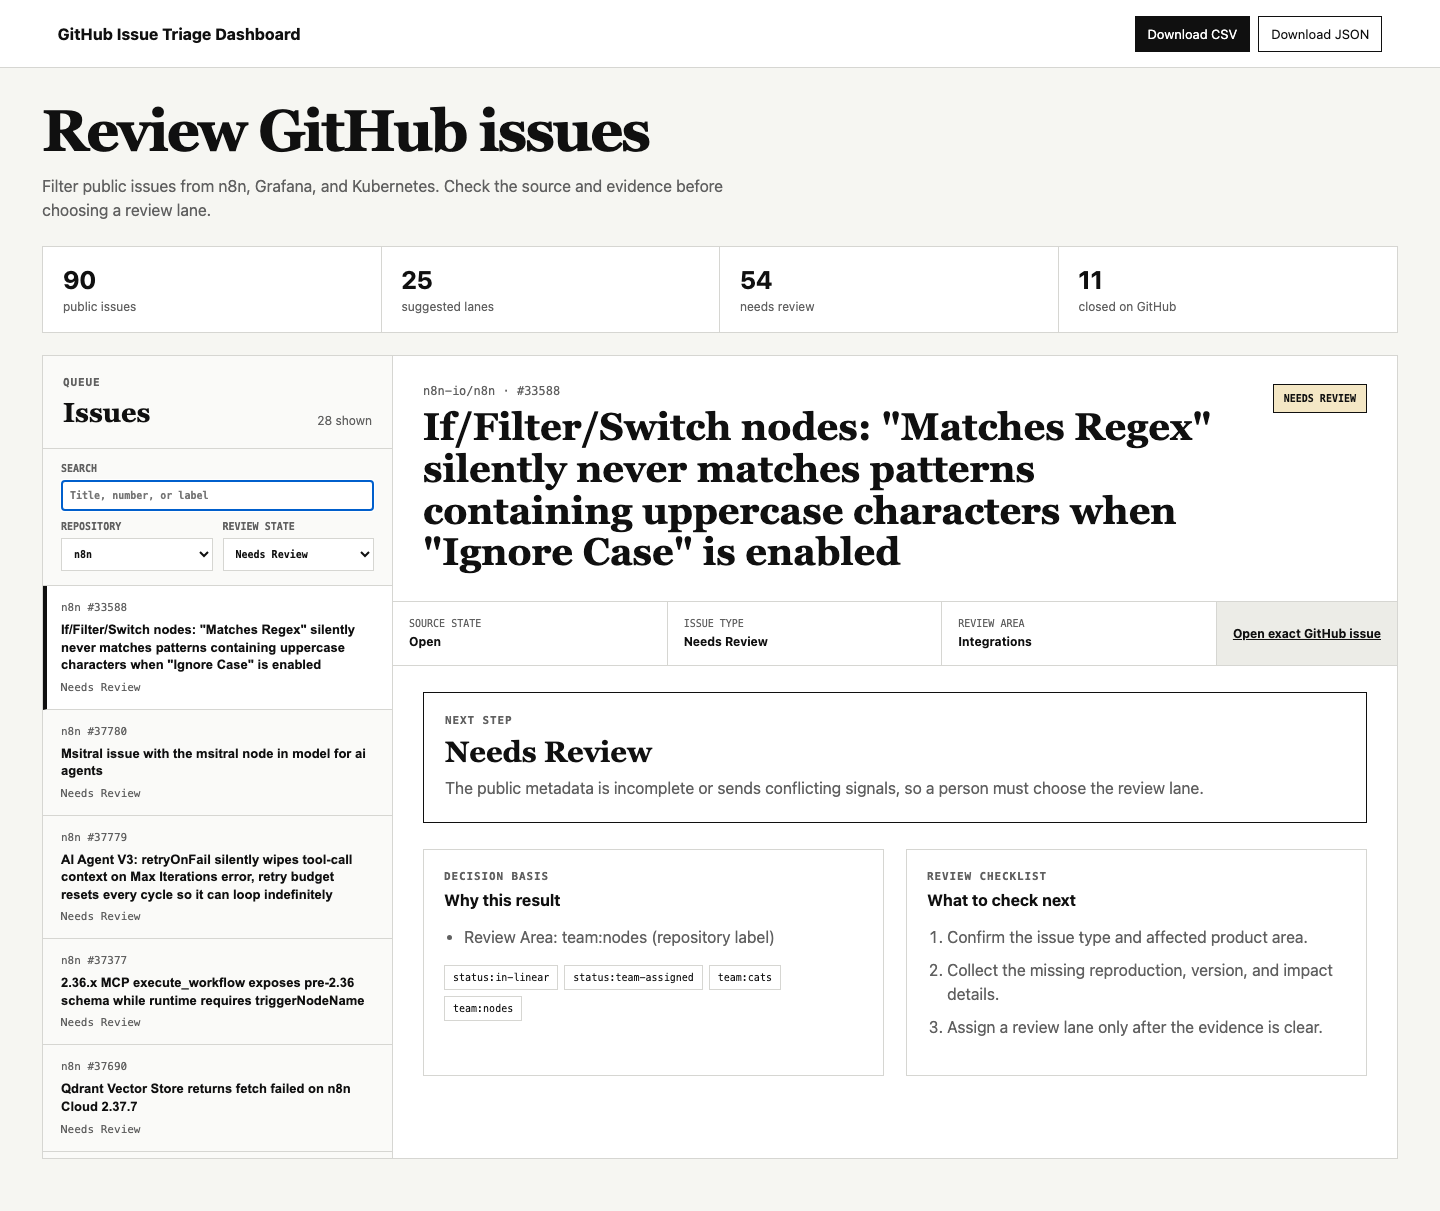
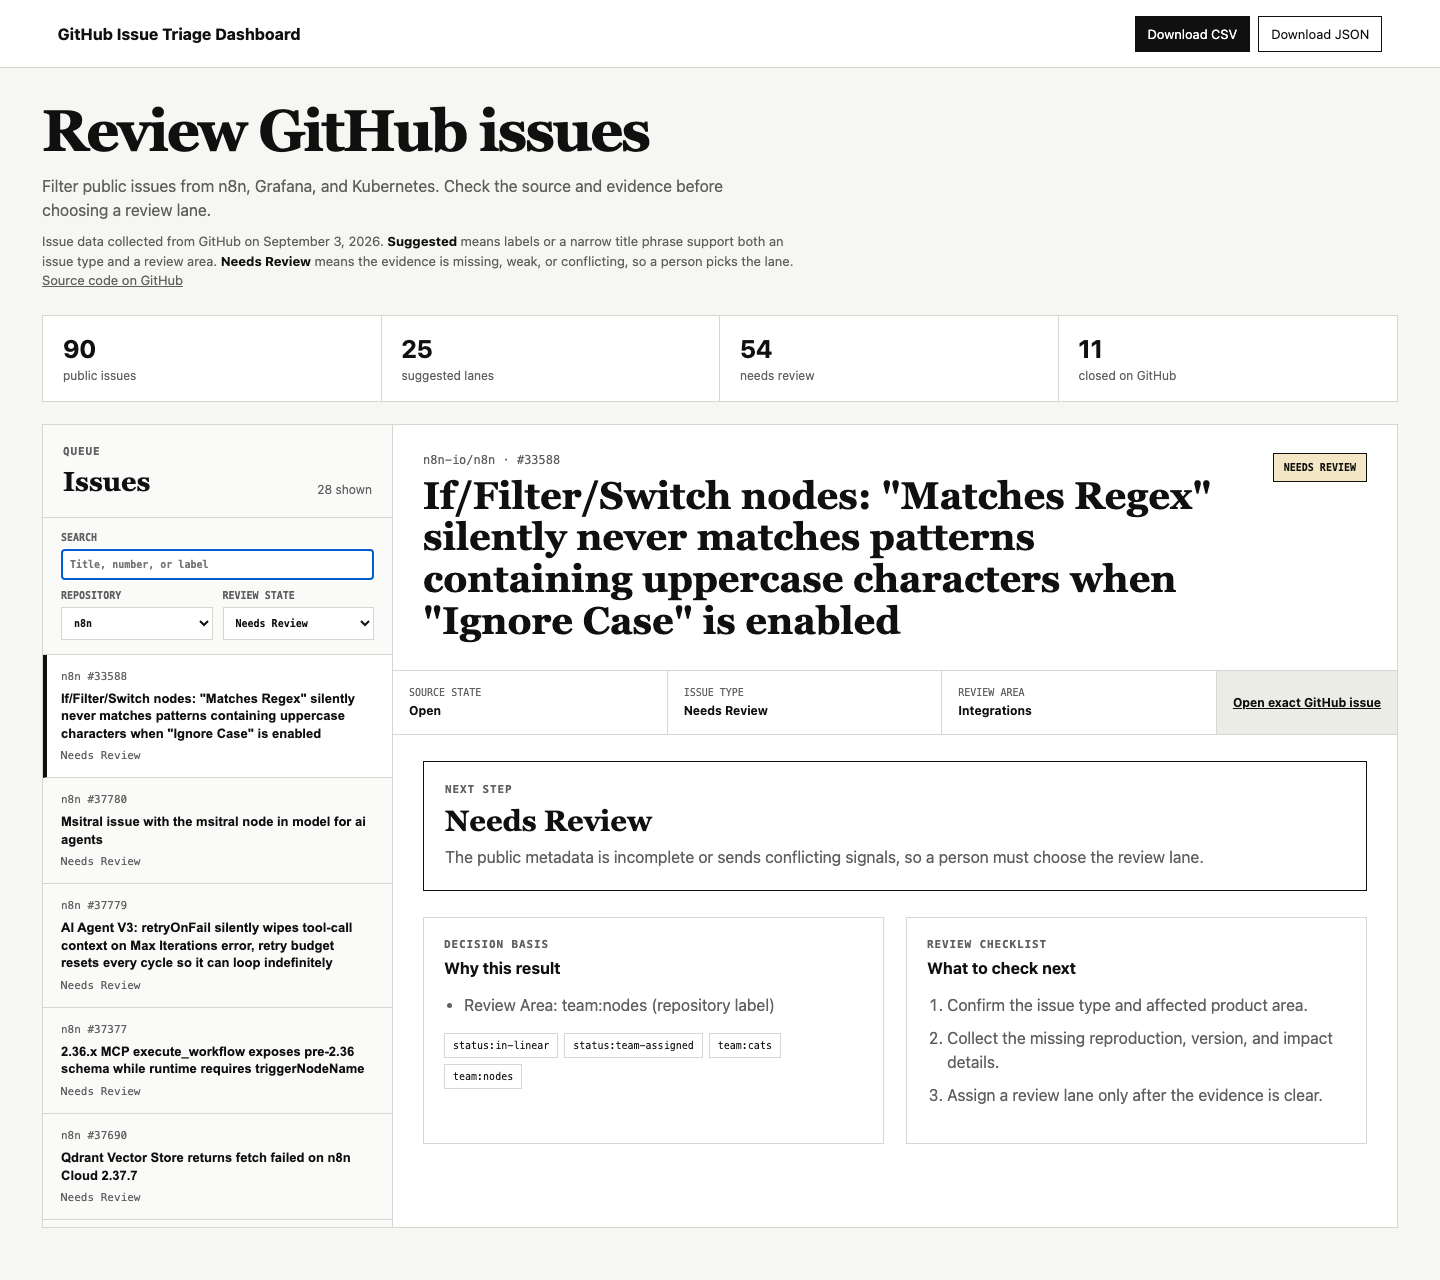
Clean up public docs and add data context to the dashboard
- Record a repo-relative app root in browser QA evidence instead of a
  local path, and drop the private note path from the verify script.
- Rewrite the README top: live link, screenshot, dated key counts, and
  why n8n issues are held for review. Move setup lower.
- Drop pinned-release and approval notes; plain down framing wording in
  the walkthrough, claim ledger, verification notes, and source register.
- Show the data date (from the generated data), what Suggested and
  Needs Review mean, and a repository link on the live page, with a
  browser check for the new line.
- Let the README state counts; other documents still keep generated
  counts out of prose.

diff --git a/site/dashboard.css b/site/dashboard.css
@@ -30,6 +30,8 @@ main { width: min(1500px, 100%); margin: 0 auto; padding: 0 clamp(14px, 3vw, 42p
 .kicker { margin: 0 0 8px; color: var(--muted); font: 700 11px ui-monospace, monospace; letter-spacing: .08em; text-transform: uppercase; }
 h1 { max-width: 780px; margin: 0; font: 600 clamp(36px, 4.2vw, 58px)/1 Georgia, serif; letter-spacing: -.035em; }
 .intro-copy { max-width: 720px; margin: 14px 0 0; color: var(--muted); font-size: 16px; line-height: 1.5; }
+.data-note { max-width: 760px; margin: 10px 0 0; color: var(--muted); font-size: 13px; line-height: 1.5; }
+.data-note strong { color: var(--ink); }
 
 .metrics { margin-bottom: 22px; display: grid; grid-template-columns: repeat(4, 1fr); border: 1px solid var(--line); background: var(--white); }
 .metrics div { min-width: 0; padding: 18px 20px; border-right: 1px solid var(--line); }

diff --git a/site/index.html b/site/index.html
@@ -25,6 +25,7 @@
       <div>
         <h1 id="page-title">Review GitHub issues</h1>
         <p class="intro-copy">Filter public issues from n8n, Grafana, and Kubernetes. Check the source and evidence before choosing a review lane.</p>
+        <p class="data-note">Issue data collected from GitHub on <time id="data-date" datetime="2026-09-03">September 3, 2026</time>. <strong>Suggested</strong> means labels or a narrow title phrase support both an issue type and a review area. <strong>Needs Review</strong> means the evidence is missing, weak, or conflicting, so a person picks the lane. <a href="https://github.com/Duckky153/issue-triage" target="_blank" rel="noreferrer">Source code on GitHub</a></p>
       </div>
     </section>
 

diff --git a/site/dashboard.js b/site/dashboard.js
@@ -122,6 +122,11 @@
   $("#metric-suggested").textContent = data.summary.suggested;
   $("#metric-review").textContent = data.summary.needsReview;
   $("#metric-closed").textContent = data.summary.closedSource;
+  const dataDate = new Date(data.summary.retrievedAt);
+  if (!Number.isNaN(dataDate.getTime())) {
+    $("#data-date").textContent = dataDate.toLocaleDateString("en-US", { year: "numeric", month: "long", day: "numeric", timeZone: "UTC" });
+    $("#data-date").dateTime = dataDate.toISOString().slice(0, 10);
+  }
   render();
   document.documentElement.dataset.ready = "true";
 })();

diff --git a/src/collector.js b/src/collector.js
@@ -157,7 +157,7 @@ export async function collectSnapshot(options = {}) {
     boundaries: [
       "The records are public GitHub issues, not private support tickets.",
       "The dashboard is independent and is not affiliated with the repositories or their maintainers.",
-      "Suggested review lanes are deterministic portfolio outputs, not maintainer assignments or priorities."
+      "Suggested review lanes come from fixed rules; they are not maintainer assignments or priorities."
     ]
   };
   return { dataset, manifest };

diff --git a/src/release.js b/src/release.js
@@ -69,7 +69,8 @@ export function buildRelease(dataset, manifest, benchmark) {
       totalRecords: dashboard.totalRecords,
       needsReview: dashboard.needsReview,
       suggested: dashboard.suggested,
-      closedSource: dashboard.closedRecords
+      closedSource: dashboard.closedRecords,
+      retrievedAt: dataset.retrievedAt
     },
     results: publicResults
   };

diff --git a/site/generated-data.js b/site/generated-data.js
@@ -3,7 +3,8 @@ window.GITHUB_TRIAGE_DATA = {
     "totalRecords": 90,
     "needsReview": 54,
     "suggested": 25,
-    "closedSource": 11
+    "closedSource": 11,
+    "retrievedAt": "2026-09-03T20:21:36.478Z"
   },
   "results": [
     {

diff --git a/README.md b/README.md
@@ -1,8 +1,23 @@
 # GitHub Issue Triage Dashboard
 
-A dashboard that turns public GitHub issue metadata into a review queue. It keeps the exact source link, shows the evidence used, separates issue type from review area, and sends uncertain records to `Needs Review`.
+This dashboard turns public GitHub issues from n8n, Grafana, and Kubernetes into a review queue. It helps a person who triages issues see the exact source, the evidence behind each suggested review lane, and which issues still need a human decision.
 
-The pinned release contains equal samples from n8n, Grafana, and Kubernetes. The live totals, exclusions, hashes, and review-state counts are generated; they are not copied into this document.
+**Live site:** [duckky153.github.io/issue-triage](https://duckky153.github.io/issue-triage/)
+
+![The dashboard with the issue queue, filters, and one selected issue with its evidence and review checklist](evidence/dashboard-desktop.png)
+
+## Key facts
+
+From the issue data collected on September 3, 2026:
+
+- 90 public issues, 30 from each repository.
+- 25 issues have a suggested review lane, 54 are held for review, and 11 were already closed on GitHub.
+- None of the 30 n8n issues gets a suggested lane. Recent n8n issues carry team and status labels but no bug or feature label, so the rules hold them for review instead of guessing.
+- Every deploy first runs 23 unit tests, 15 artifact checks, and 19 browser checks. A failed check stops the release.
+
+Built with AI assistance (Claude Code and Codex).
+
+This is an independent project on public data. It is not affiliated with n8n, Grafana, or Kubernetes, and it has no real users. A suggested review lane comes from fixed rules and is a prompt for human review, not an assignment, priority, or maintainer decision.
 
 ## Run it
 
@@ -21,13 +36,13 @@ stopping that project:
 PORT=4192 npm run serve
 ```
 
-To collect a new candidate and promote it only after every gate passes:
+To collect new issue data and promote it only after every check passes:
 
 ```bash
 npm run refresh-and-verify
 ```
 
-## Build the public demo
+## Build the static site
 
 ```bash
 npm run build-static
@@ -37,7 +52,7 @@ npm run serve-static
 
 The `dist` folder is a self-contained static site. It includes the dashboard data and both downloadable handoffs, uses relative paths so it works under a GitHub Pages project URL, and makes no API request when a visitor opens it.
 
-The public demo is live at `https://duckky153.github.io/issue-triage/`, with source at `https://github.com/Duckky153/issue-triage`. The checked-in Pages workflow runs the full release gate, builds `dist`, and deploys that folder. See `docs/DEPLOYMENT.md`. Building the folder locally does not publish it.
+The source is at `https://github.com/Duckky153/issue-triage`. The checked-in Pages workflow runs the full check suite, builds `dist`, and deploys that folder. See `docs/DEPLOYMENT.md`. Building the folder locally does not publish it.
 
 ## What the workflow does
 
@@ -51,8 +66,8 @@ The public demo is live at `https://duckky153.github.io/issue-triage/`, with sou
 
 The CSV and JSON handoff files contain the source URL, evidence, suggested review lane, and next-step checklist for every issue.
 
-## Boundaries
+## Limits
 
-This is an independent portfolio project. It does not prove affiliation, employment, maintainer access, private support work, production use, employee adoption, time saved, or a business outcome. A suggested review lane is an explainable prompt for human review, not an assignment, priority, resolution, or maintainer decision.
+The project does not show affiliation, employment, maintainer access, private support work, production use, adoption, time saved, or a business outcome. The counts above describe the September 3, 2026 data; `evidence/current-verification.json` holds the current generated result.
 
-See `docs/USER-GUIDE.md` for the walkthrough and `evidence/current-verification.json` for the current generated result.
+See `docs/USER-GUIDE.md` for how to use the dashboard and `docs/WALKTHROUGH.md` for how it works.

diff --git a/evidence/CLAIM-LEDGER.md b/evidence/CLAIM-LEDGER.md
@@ -6,12 +6,12 @@
 | Keeps equal samples from three repositories | Generated data-quality report and source register | A snapshot, not a live demand estimate |
 | Excludes pull requests and duplicate records | Collector tests and per-source manifest counts | Does not judge issue quality |
 | Omits people, bodies, comment text, and credentials | Collector normalization test and data-quality gate | Public titles and labels remain |
-| Separates issue type, review area, and review state | Engine output, unit tests, dashboard fields | These are portfolio rules, not company taxonomy |
+| Separates issue type, review area, and review state | Engine output, unit tests, dashboard fields | These rules were written for this project, not taken from a maintainer taxonomy |
 | Returns `Needs Review` on weak or conflicting evidence | Conflict, missing-evidence, and needs-information tests | A human must decide the lane |
 | Uses a fixed reviewed benchmark | `data/benchmark.json`, generated benchmark report | Measures rule agreement and coverage, not model accuracy |
 | Preserves the prior release after refresh failure | Transaction tests and maintenance document | Local file rollback only |
 | Exports a review handoff | Generated CSV and JSON files | No ticket-system write or assignment |
-| Builds a self-contained static demo | `npm run build-static` and `npm run verify-static` | Public availability begins only after an approved deployment |
+| Builds a self-contained static site | `npm run build-static` and `npm run verify-static` | The public site changes only after the Pages workflow passes |
 | Escapes hostile public titles | Browser test using an injected hostile title | Covers displayed public strings in this interface |
 
 ## Claims not supported

diff --git a/docs/DEPLOYMENT.md b/docs/DEPLOYMENT.md
@@ -1,4 +1,4 @@
-# Public demo deployment
+# Deployment
 
 ## Release gate
 
@@ -25,11 +25,8 @@ The public repository is `Duckky153/issue-triage`, and the deployed site is `htt
 
 The workflow in `.github/workflows/pages.yml` runs the full verification suite before deployment. A failed gate stops the release.
 
-The public release at commit `d71e1a0ae63b265909974c17ca21d840a5d754b3` passed workflow run `33813274154` on September 3, 2026. A separate public-host browser check confirmed the totals, search, both filters, exact source links, CSV and JSON downloads, and mobile layout with no console or page errors.
+The first public release, commit `d71e1a0ae63b265909974c17ca21d840a5d754b3`, passed workflow run `33813274154` on September 3, 2026. A separate public-host browser check confirmed the totals, search, both filters, exact source links, CSV and JSON downloads, and mobile layout with no console or page errors.
 
-## Updating the public snapshot
+## Updating the public data
 
-Refresh locally and review the result before pushing it. A live refresh changes which recently updated issues appear, so the checked-in release remains stable until the verified files are committed and deployed.
-
-The initial publication was owner-authorized on September 3, 2026. Future
-public changes still require owner approval and a passing workflow.
+Refresh locally and review the result before pushing it. A live refresh changes which recently updated issues appear, so the checked-in release remains stable until the verified files are committed and deployed. A change reaches the public site only after the workflow passes.

diff --git a/docs/WALKTHROUGH.md b/docs/WALKTHROUGH.md
@@ -1,6 +1,6 @@
 # Walkthrough
 
-## Two-minute explanation
+## How it works
 
 1. **Problem:** public issue queues contain mixed work and incomplete metadata. The dashboard prepares a review record without pretending to make a maintainer decision.
 2. **Input:** public GitHub metadata from three repositories. Pull requests, duplicate records, usernames, bodies, assignees, and comment text are excluded.
@@ -8,9 +8,9 @@
 4. **Interface:** search or filter the queue, select an issue, open the exact source, inspect the evidence, and follow the checklist.
 5. **Handoff:** export CSV or JSON with the source URL, evidence, lane, and next steps.
 6. **Quality:** a fixed real-issue benchmark checks rule agreement, while candidate validation, browser tests, static-release checks, and rollback tests protect the current release.
-7. **Limit:** this is public-data portfolio work, not affiliation, private support work, production use, adoption, time saved, or a company outcome.
+7. **Limit:** this project uses public data only. It has no affiliation, private support work, production use, real users, adoption, time saved, or company outcome.
 
-## Likely questions
+## Common questions
 
 **Why not infer more from the title?** Generic words create false positives. The tool abstains when the retained evidence is not enough.
 

diff --git a/evidence/VERIFICATION.md b/evidence/VERIFICATION.md
@@ -1,6 +1,6 @@
 # Verification
 
-Run `npm run verify` for the pinned release and `npm run refresh-and-verify` for a new live candidate.
+Run `npm run verify` for the checked-in release and `npm run refresh-and-verify` for a new live candidate.
 
 The exact current result belongs in generated evidence, not prose:
 
@@ -12,4 +12,4 @@ The exact current result belongs in generated evidence, not prose:
 
 The release is ready only when `current-verification.json` reports `verified`, the dataset report is valid, the benchmark reports zero incompatible automatic suggestions, every test and browser check passes, the static release serves every required file, syntax checks pass, and the dependency audit reports no blocking vulnerability.
 
-This evidence proves a local public-data portfolio workflow. It does not prove affiliation, private access, production use, adoption, or an organizational outcome.
+This evidence covers a local workflow on public data. It does not prove affiliation, private access, production use, adoption, or an organizational outcome.

diff --git a/docs/USER-GUIDE.md b/docs/USER-GUIDE.md
@@ -25,6 +25,6 @@ as `PORT=4192 npm run serve`, and open the URL printed by the server.
 
 Use `npm run refresh-and-verify`. The current release changes only after the new candidate passes collection, data, benchmark, test, artifact, browser, syntax, and dependency gates.
 
-## Public demo
+## Public site
 
-Run `npm run build-static` and `npm run verify-static` before publication. The resulting `dist` folder is the deployable site. The public demo is `https://duckky153.github.io/issue-triage/`; future releases require the repository owner's approval and a passing workflow.
+Run `npm run build-static` and `npm run verify-static` before publication. The resulting `dist` folder is the deployable site. The public site is `https://duckky153.github.io/issue-triage/`; each release goes out only after the Pages workflow passes.
